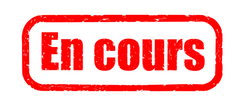
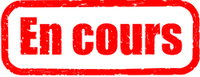
maj links in footer

diff --git a/index.html b/index.html
@@ -12,10 +12,14 @@
     <!-- balise meta pour les RS -->
     <meta property="og:title" content="les aiguilles du baron"/>
     <meta property="og:description" content="Votre tatoueur vous accueille dans son cabinet de curiosités en vieille-ville de Belfort pour une expérience des plus agréables : écoute, convivialité, flexibilité et sécurité, sont ses valeurs fondamentales."/>
-    <meta property="og:image" content="https://www.lesaiguillesdubaron.fr/chellovnik.webp"/>
+    <meta property="og:image" content="https://www.lesaiguillesdubaron.fr/atelier-de-tatouage-les-aiguilles-du-baron.webp"/>
     <meta property="og:url" content="https://www.lesaiguillesdubaron.fr"/>
     <meta property="og:type" content="website" />
     <meta property="og:site_name" content="les aiguilles du baron"/>
+
+    <!-- balise meta pour l'image sur google -->
+    <meta name="image" content="https://www.lesaiguillesdubaron.fr/chellownik-at-work.webp">
+
 
     <title>Tatoueur Belfort | Les Aiguilles du Baron | Atelier de Tatouage</title>
     <link rel="stylesheet" href="./src/index.css"><link rel="preconnect" href="https://fonts.googleapis.com">
@@ -40,7 +44,7 @@
         "@type": "TattooParlor",
         "name": "Les Aiguilles du Baron",
         "description": "Votre tatoueur vous accueille dans son cabinet de curiosités en vieille-ville de Belfort pour une expérience des plus agréables : écoute, convivialité, flexibilité et sécurité, sont ses valeurs fondamentales.",
-        "image": "https://www.lesaiguillesdubaron.fr/chellovnik.webp",
+        "image": "https://www.lesaiguillesdubaron.fr/atelier-de-tatouage-les-aiguilles-du-baron.webp",
         "logo": "https://www.lesaiguillesdubaron.fr/favicon.ico",
         "url": "https://lesaiguillesdubaron.fr",
         "address": {

diff --git a/src/components/Gallery/gallery.jsx b/src/components/Gallery/gallery.jsx
@@ -1,7 +1,8 @@
 import { useState, useEffect } from 'react';
 import CategoryDescription from './categoryDescription';
-import reservedBadge from '../../assets/reza-vert.png';
+import reservedBadge from '../../assets/reza.png';
 import inProgressBadge from '../../assets/en-cours.png';
+import availableBadge from '../../assets/dispo.png';
 
 import photosData from '../../data/photos.json';
 
@@ -15,6 +16,21 @@ const categories = [
     { key: 'floral', label: 'Floral / Fine line' },
     { key: 'atelier', label: "Vie de l'Atelier" }
 ];
+
+const badgeMap = {
+    reserved: {
+        src: reservedBadge,
+        alt: "Réservé"
+    },
+    in_progress: {
+        src: inProgressBadge,
+        alt: "En cours"
+    },
+    available: {
+        src: availableBadge,
+        alt: "Disponible"
+    }
+};
 
 const shufflePhotos = (photosArray) => {
     return photosArray
@@ -79,10 +95,10 @@ const Gallery = () => {
                     {filteredPhotos.slice(0, visiblePhotosCount).map((photo) => (
                         <div key={photo.id} className="photo-wrapper">
                             {/* Affiche le badge si un statut est défini */}
-                            {photo.status && (
+                            {photo.status && badgeMap[photo.status] && (
                                 <img
-                                    src={photo.status === "reserved" ? reservedBadge : inProgressBadge}
-                                    alt={photo.status === "reserved" ? "Réservé" : "En cours"}
+                                    src={badgeMap[photo.status].src}
+                                    alt={badgeMap[photo.status].alt}
                                     className="badge"
                                 />
                             )}

diff --git a/src/components/Gallery/gallery.css b/src/components/Gallery/gallery.css
@@ -19,14 +19,15 @@
 }
   
 .filter-button {
-    margin: 0 10px;
-    padding: 10px 20px;
+    width: 80%;
+    min-height: 50px;
+    margin: 0 5px;
+    padding: 5px 10px;
     border: none;
     background: rgba(0, 0, 0, 0.8);
     color: #fff;
     cursor: pointer;
     font-size: 18px;
-
     border-radius: 1rem;
 }
   
@@ -85,9 +86,9 @@
 
 .badge {
     position: absolute;
-    top: 8px;
-    left: 4px;
-    width: 150px;
+    top: 15px;
+    left: 15px;
+    width: 120px;
     height: auto;
     transform: rotate(-10deg); /* Inclinez légèrement le badge */
     filter: drop-shadow(0px 3px 2px rgba(0, 0, 0, 0.5));
@@ -128,18 +129,19 @@
 
     .filters {
         grid-template-columns: 1fr 1fr;
-        gap: 10px;
+        gap: 12px;
         margin-bottom: 2rem;
     }
 
     .filter-button {
-        margin: 0 5px;
-        padding: 5px 10px;
+        width: 100%;
         font-size: medium;
         border-radius: 0.5rem;
     }
 
     .badge {
-        width: 120px;
+        top: 10px;
+        left: 6px;
+        width: 100px;
     }
 }

diff --git a/src/components/Footer/footer.css b/src/components/Footer/footer.css
@@ -2,16 +2,21 @@ footer {
     background: black;
     color: white;
     width: 100vw;
-    height: 4rem;
+    min-height: 6rem;
+    padding: 50px 0;
     display: flex;
     align-items: center;
     justify-content: center;
-    font-size: small;
+
     gap: 0.5rem; /* Espace entre le texte et le lien */
     flex-wrap: nowrap; /* Empêche le passage à une nouvelle ligne */
 }
 
-footer a {
+footer p {
+    font-size: 16px;
+}
+
+.footerlink {
     color: white;
     text-decoration: none;
 }
@@ -22,7 +27,6 @@ footer a:hover {
 
 @media (max-width: 600px) {
     footer {
-        flex-direction: column; /* Les blocs s'empilent verticalement */
-        gap: 0.25rem; /* Réduit l'espacement entre les blocs */
+        flex-direction: column;
     }
 }

diff --git a/src/components/Footer/footer.jsx b/src/components/Footer/footer.jsx
@@ -3,7 +3,10 @@ import './footer.css';
 const Footer = () => {
   return (
     <footer className='footer'>
-        Copyright &#169; 2025 - Les Aiguilles du Baron. Tous droits réservés.<a href="https://benji-belfort-portfolio.netlify.app/" target="_blank" rel="noopener noreferrer">Dev by Benji Belfort</a>
+        <p>Copyright &#169; 2025 - Les Aiguilles du Baron.</p>
+        <p>Tous droits réservés.</p>
+        <a className='footerlink' href="https://ta0.myportfolio.com/" target="_blank" rel="noopener noreferrer">Pic by Théo Merle.</a>
+        <a className='footerlink' href="https://benji-belfort-portfolio.netlify.app/" target="_blank" rel="noopener noreferrer">Dev by Benji Belfort.</a>
     </footer>
   );
 }

diff --git a/src/App.jsx b/src/App.jsx
@@ -51,9 +51,9 @@ const App = () => {
               <Mainimg />
               <Mainlogo />
               <Intro />
-              {/* <Testimonials /> */}
               <Gallery />
               <Atelier />
+              {/* <Testimonials /> */}
               <Contact />
               <Footer />
               <CookieBanner />

diff --git a/src/index.css b/src/index.css
@@ -24,6 +24,12 @@ h3 {
   margin: 5rem 0;
 }
 
+p {
+  font-size: larger;
+  line-height: 1.6rem;
+  text-justify: auto;
+}
+
 @media screen and (max-width:375px) {
   h3 {
     font-size: xx-large;

diff --git a/src/components/Atelier/atelier.css b/src/components/Atelier/atelier.css
@@ -20,11 +20,6 @@ h4 {
     margin-bottom: 2rem;
 }
 
-p {
-    font-size: larger;
-    line-height: 1.6rem;
-    text-justify: auto;
-}
 
 .item {
     display: flex;
